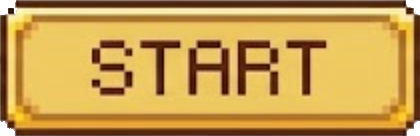
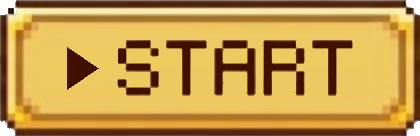
Update assets and scripts

Changed region(s): [[0.1548, 0.2647, 0.8667, 0.7353]]

diff --git a/Node2d.cs b/Node2d.cs
@@ -3,6 +3,7 @@ using Godot;
 public partial class Node2d : Godot.Node2D
 {
     [Export] private TextureButton startButton;
+    [Export] private TextureButton bigClothesButton;
     [Export] private BaseButton gameOverFrame;
     private Label gameOverScoreLabel;
     private Label gameOverHiLabel;
@@ -44,6 +45,15 @@ public partial class Node2d : Godot.Node2D
         GetViewport().SizeChanged += UpdateScoreLayout;
         UpdateScoreDisplay();
 
+        if (bigClothesButton == null)
+        {
+            bigClothesButton = GetNodeOrNull<TextureButton>("HUD/BigClothesButton");
+        }
+        if (bigClothesButton != null)
+        {
+            bigClothesButton.Pressed += OpenClothesPanel;
+        }
+
         if (changeClothesButton == null)
         {
             changeClothesButton = GetNodeOrNull<BaseButton>("HUD/ChangeClothesButton");
@@ -83,11 +93,11 @@ public partial class Node2d : Godot.Node2D
         }
 
 		dinoPlayer = GetNodeOrNull<DinoPlayer>("DinoPlayer");
+        CenterStartButton();
+        GetViewport().SizeChanged += CenterStartButton;
         if (startButton != null)
         {
             startButton.Pressed += StartGame;
-            CenterStartButton();
-            GetViewport().SizeChanged += CenterStartButton;
         }
 
         if (gameOverFrame == null)
@@ -200,6 +210,9 @@ public void StartGame()
     if (startButton != null)
         startButton.Hide();
 
+    if (bigClothesButton != null)
+        bigClothesButton.Hide();
+
     if (gameOverFrame != null)
         gameOverFrame.Hide();
 
@@ -256,8 +269,11 @@ public void StartGame()
     if (startButton != null)
         startButton.Show();
 
+    if (bigClothesButton != null)
+        bigClothesButton.Show();
+
     if (changeClothesButton != null)
-        changeClothesButton.Show();
+        changeClothesButton.Hide();
 
     if (spawner != null)
         spawner.StopSpawning();
@@ -292,6 +308,9 @@ public void StartGame()
     // Khi thua: hiện khung Game Over hiển thị điểm số và kỷ lục, ẩn startButton
     if (startButton != null)
         startButton.Hide();
+
+    if (bigClothesButton != null)
+        bigClothesButton.Hide();
 
     if (gameOverScoreLabel != null)
         gameOverScoreLabel.Text = $"SCORE: {(int)currentScore:D5}";
@@ -396,27 +415,46 @@ private void ToggleThirdOutfit()
 
 private void CenterStartButton()
 {
-    if (startButton == null) return;
-
-    Vector2 texSize = startButton.TextureNormal != null ? startButton.TextureNormal.GetSize() : startButton.Size;
-    if (texSize == Vector2.Zero)
+    Vector2 texSize = new Vector2(420f, 136f);
+    if (startButton != null)
     {
-        texSize = new Vector2(420f, 136f);
+        if (startButton.TextureNormal != null)
+            texSize = startButton.TextureNormal.GetSize();
+        else if (startButton.Size != Vector2.Zero)
+            texSize = startButton.Size;
+
+        startButton.LayoutMode = 1;
+        startButton.AnchorsPreset = (int)Control.LayoutPreset.Center;
+        startButton.AnchorLeft = 0.5f;
+        startButton.AnchorTop = 0.5f;
+        startButton.AnchorRight = 0.5f;
+        startButton.AnchorBottom = 0.5f;
+        startButton.OffsetLeft = -texSize.X / 2f;
+        startButton.OffsetRight = texSize.X / 2f;
+        startButton.OffsetTop = -texSize.Y / 2f;
+        startButton.OffsetBottom = texSize.Y / 2f;
+        startButton.GrowHorizontal = Control.GrowDirection.Both;
+        startButton.GrowVertical = Control.GrowDirection.Both;
+        startButton.PivotOffset = texSize / 2f;
     }
 
-    startButton.LayoutMode = 1;
-    startButton.AnchorsPreset = (int)Control.LayoutPreset.Center;
-    startButton.AnchorLeft = 0.5f;
-    startButton.AnchorTop = 0.5f;
-    startButton.AnchorRight = 0.5f;
-    startButton.AnchorBottom = 0.5f;
-    startButton.OffsetLeft = -texSize.X / 2f;
-    startButton.OffsetRight = texSize.X / 2f;
-    startButton.OffsetTop = -texSize.Y / 2f;
-    startButton.OffsetBottom = texSize.Y / 2f;
-    startButton.GrowHorizontal = Control.GrowDirection.Both;
-    startButton.GrowVertical = Control.GrowDirection.Both;
-    startButton.PivotOffset = texSize / 2f;
+    if (bigClothesButton != null)
+    {
+        float gap = 14f;
+        bigClothesButton.LayoutMode = 1;
+        bigClothesButton.AnchorsPreset = (int)Control.LayoutPreset.Center;
+        bigClothesButton.AnchorLeft = 0.5f;
+        bigClothesButton.AnchorTop = 0.5f;
+        bigClothesButton.AnchorRight = 0.5f;
+        bigClothesButton.AnchorBottom = 0.5f;
+        bigClothesButton.OffsetLeft = -texSize.X / 2f;
+        bigClothesButton.OffsetRight = texSize.X / 2f;
+        bigClothesButton.OffsetTop = (texSize.Y / 2f) + gap;
+        bigClothesButton.OffsetBottom = (texSize.Y / 2f) + gap + texSize.Y;
+        bigClothesButton.GrowHorizontal = Control.GrowDirection.Both;
+        bigClothesButton.GrowVertical = Control.GrowDirection.Both;
+        bigClothesButton.PivotOffset = texSize / 2f;
+    }
 }
 
 private void CenterGameOverFrame()
